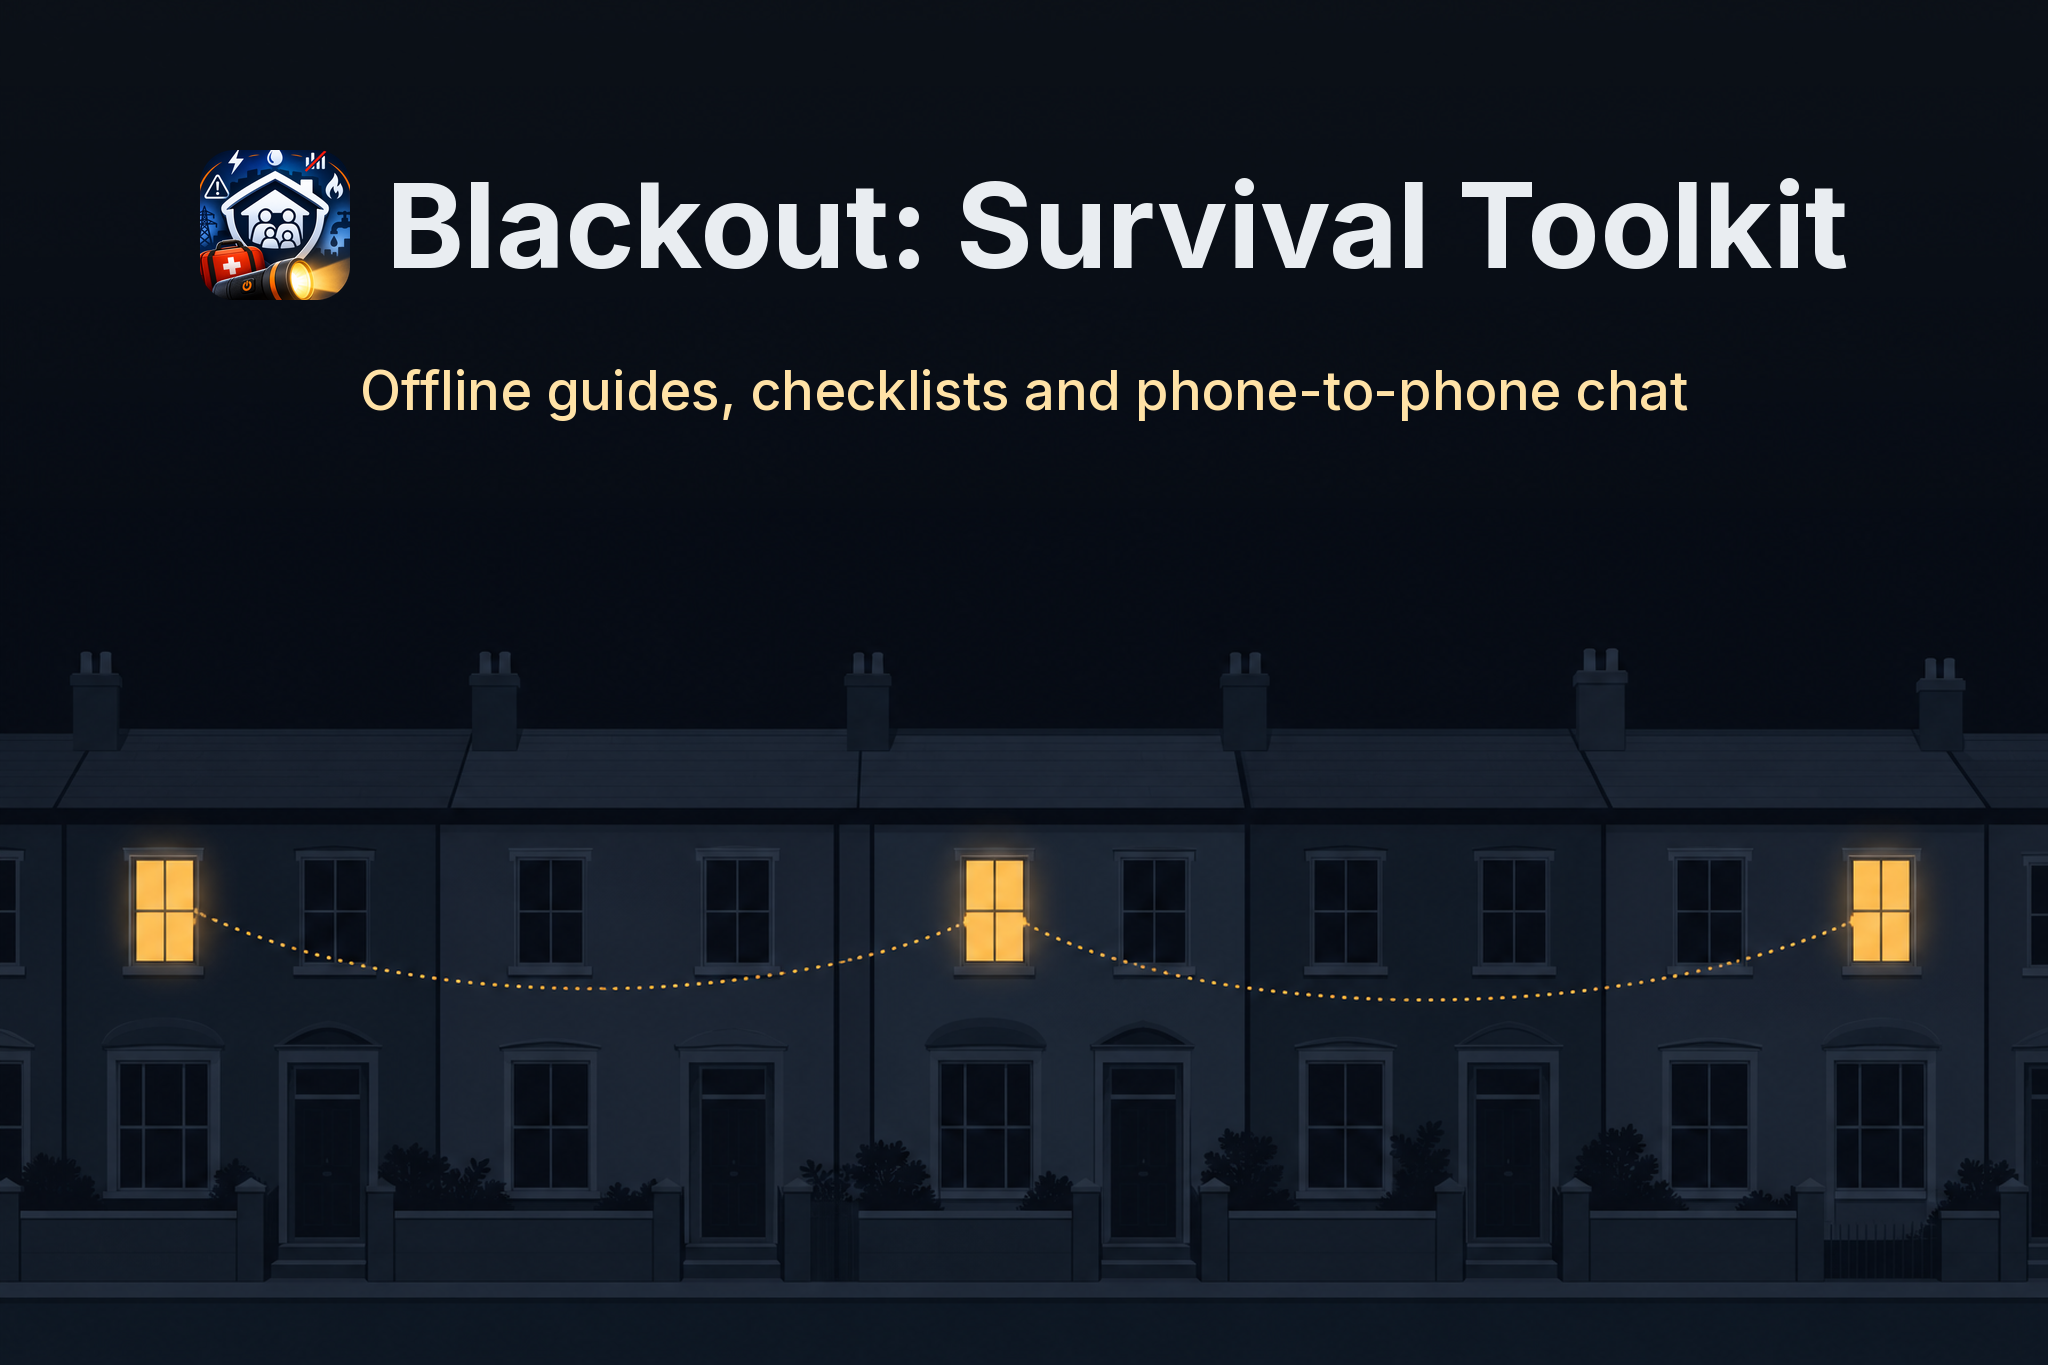
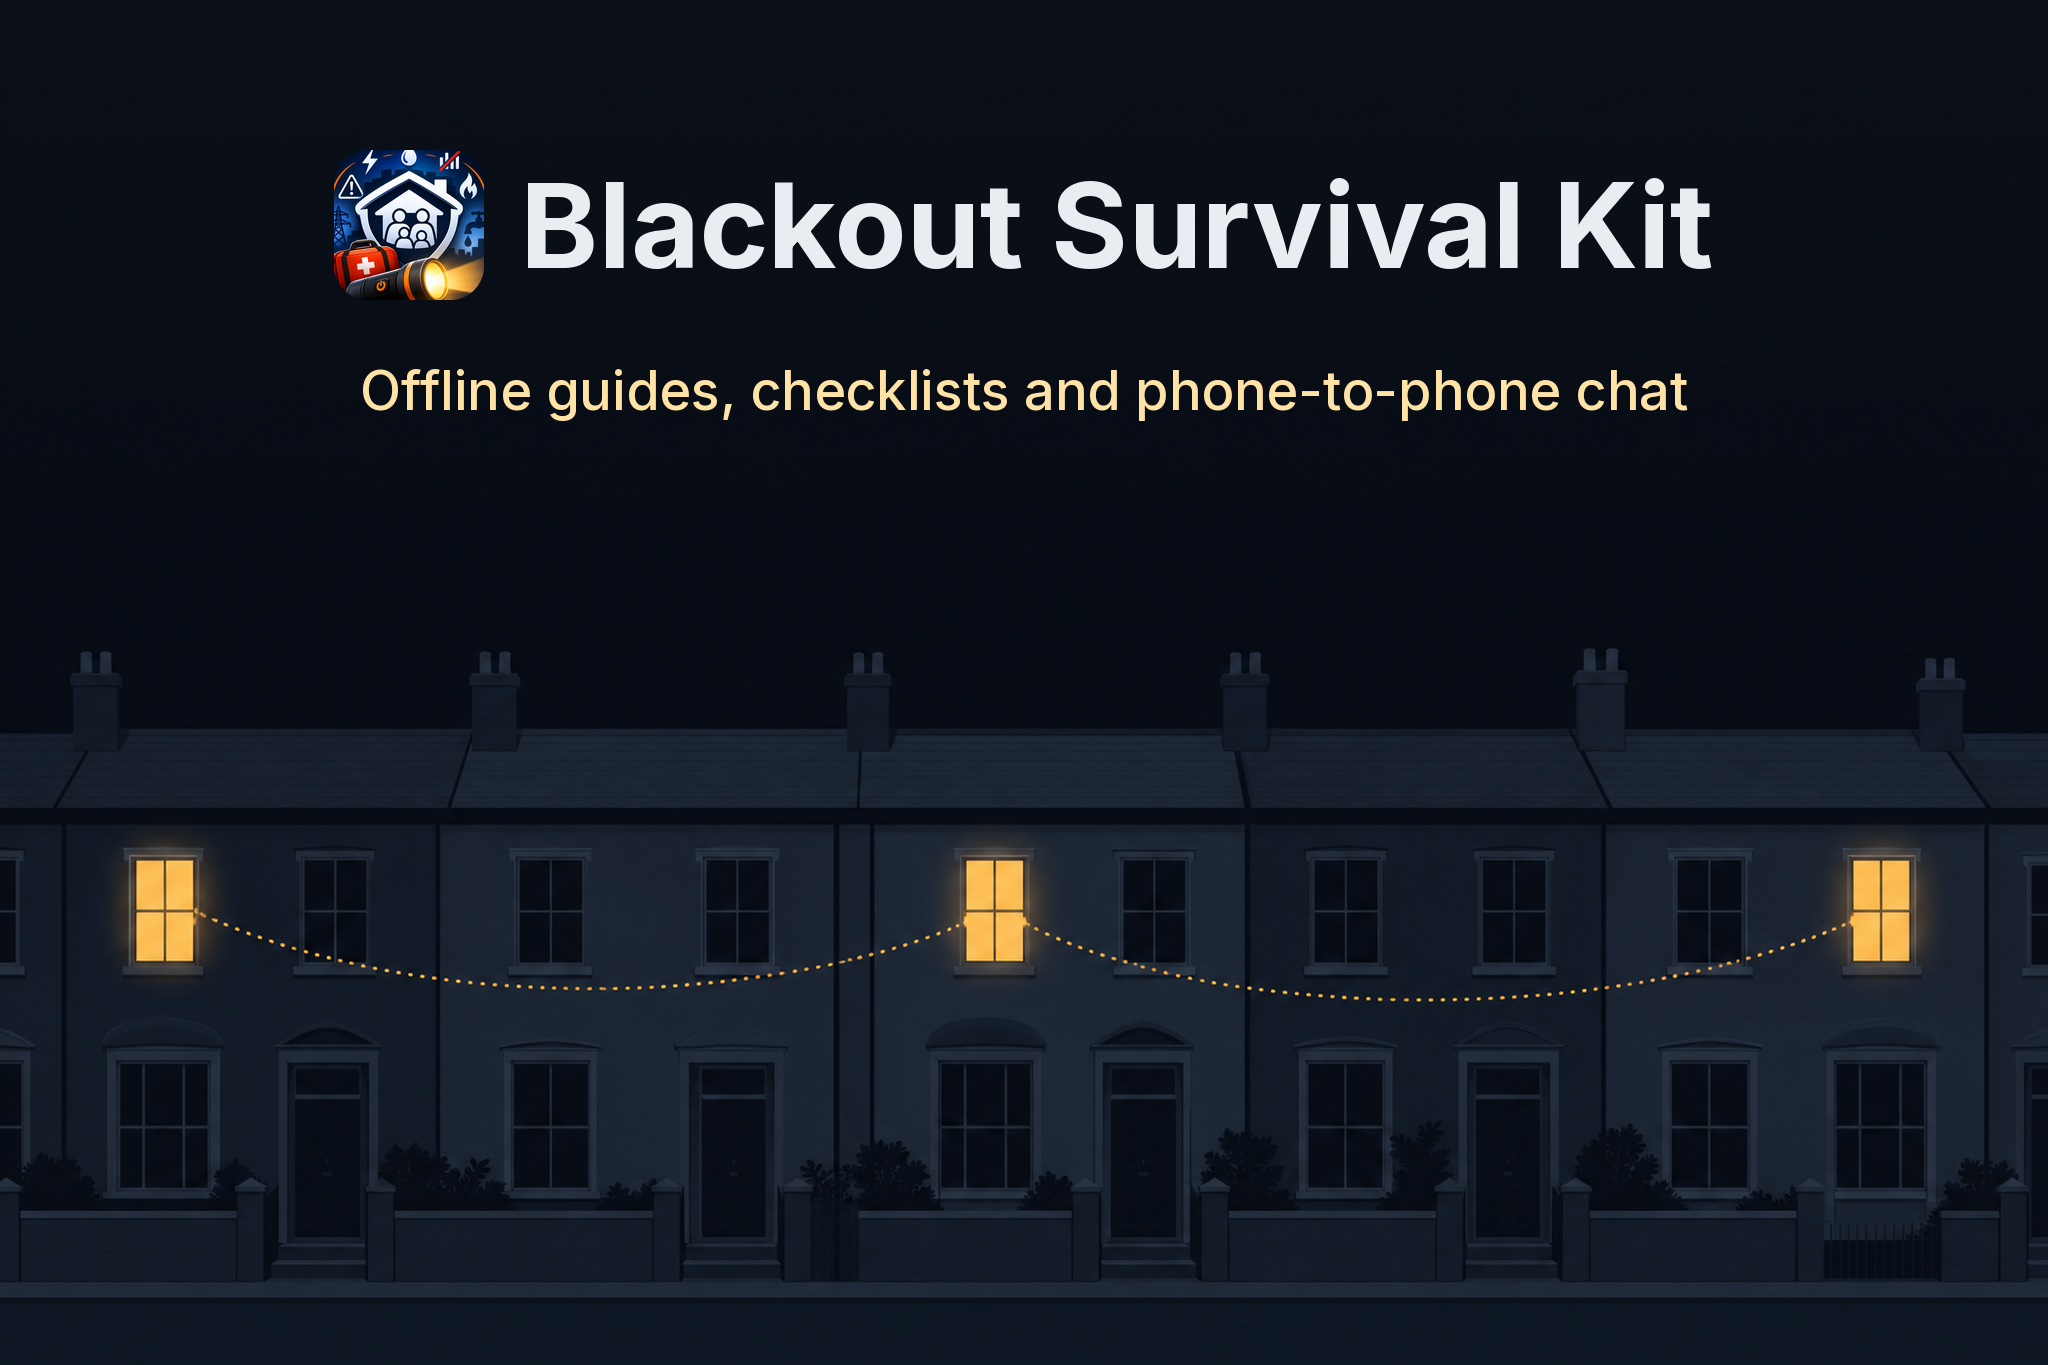
Blackout Survival Kit: rename from 'Blackout: Survival Toolkit' (slug unchanged); made for UK households; feature image title re-rendered

Changed region(s): [[0.0938, 0.0923, 0.9062, 0.2154]]

diff --git a/public_html/blackouttoolkit/index.html b/public_html/blackouttoolkit/index.html
@@ -4,10 +4,10 @@
 <meta charset="UTF-8" />
 <meta name="viewport" content="width=device-width, initial-scale=1, viewport-fit=cover" />
 <meta name="theme-color" content="#0E1319" />
-<title>Blackout: Survival Toolkit — Power cut help, offline guides</title>
-<meta name="description" content="Get your household ready for a power cut, flood, storm or loss of signal. Offline guides and checklists, a household plan, a torch and SOS light, all on your phone with no internet. For iPhone, iPad and Android." />
-<meta property="og:title" content="Blackout: Survival Toolkit — Power cut help, offline guides" />
-<meta property="og:description" content="Get your household ready for a power cut, flood, storm or loss of signal. Offline guides and checklists, a household plan, a torch and SOS light, all on your phone with no internet. For iPhone, iPad and Android." />
+<title>Blackout Survival Kit — Power cut help, offline guides</title>
+<meta name="description" content="Made for UK households: get ready for a power cut, flood, storm or loss of signal. Offline guides and checklists, a household plan, a torch and SOS light, all on your phone with no internet. For iPhone, iPad and Android." />
+<meta property="og:title" content="Blackout Survival Kit — Power cut help, offline guides" />
+<meta property="og:description" content="Made for UK households: get ready for a power cut, flood, storm or loss of signal. Offline guides and checklists, a household plan, a torch and SOS light, all on your phone with no internet. For iPhone, iPad and Android." />
 <meta property="og:type" content="website" />
 <meta property="og:url" content="https://blackouttoolkit.froggyeye.com/" />
 <meta property="og:site_name" content="Froggy Eye Ltd" />
@@ -15,7 +15,7 @@
 <meta property="og:image" content="https://blackouttoolkit.froggyeye.com/feature.png" />
 <meta property="og:image:width" content="2048" />
 <meta property="og:image:height" content="1365" />
-<meta property="og:image:alt" content="Blackout: Survival Toolkit. Offline guides, checklists and phone-to-phone chat." />
+<meta property="og:image:alt" content="Blackout Survival Kit. Offline guides, checklists and phone-to-phone chat for UK households." />
 <link rel="icon" type="image/png" href="icon.png" />
 <link rel="apple-touch-icon" href="icon.png" />
 <link rel="dns-prefetch" href="https://fonts.gstatic.com" />
@@ -231,15 +231,15 @@ a.store[data-na]{display:none !important;}
 </style>
 <link rel="canonical" href="https://blackouttoolkit.froggyeye.com/" />
 <meta name="twitter:card" content="summary_large_image" />
-<meta name="twitter:title" content="Blackout: Survival Toolkit — what to do in a power cut, offline guides and household plan | Froggy Eye Ltd" />
-<meta name="twitter:description" content="What to do in a power cut, flood or storm in the UK. 22 offline guides with checklists, a household emergency plan, torch and SOS light, all on your phone with no internet. Free, with a one-time Pro unlock." />
+<meta name="twitter:title" content="Blackout Survival Kit — what to do in a power cut, offline guides and a household plan for UK homes | Froggy Eye Ltd" />
+<meta name="twitter:description" content="Made for UK households. What to do in a power cut, flood or storm: 22 offline guides with checklists, a household emergency plan, torch and SOS light, all on your phone with no internet. Free, with a one-time Pro unlock." />
 <meta name="twitter:image" content="https://blackouttoolkit.froggyeye.com/feature.png" />
 <script type="application/ld+json">
 {
   "@context": "https://schema.org",
   "@type": "MobileApplication",
-  "name": "Blackout: Survival Toolkit",
-  "description": "What to do in a power cut, flood or storm in the UK. 22 offline guides with checklists, a household emergency plan, torch and SOS light, all on your phone with no internet. Free, with a one-time Pro unlock.",
+  "name": "Blackout Survival Kit",
+  "description": "Made for UK households. What to do in a power cut, flood or storm: 22 offline guides with checklists, a household emergency plan, torch and SOS light, all on your phone with no internet. Free, with a one-time Pro unlock.",
   "applicationCategory": "UtilitiesApplication",
   "operatingSystem": "iOS, Android",
   "url": "https://blackouttoolkit.froggyeye.com",
@@ -270,6 +270,14 @@ a.store[data-na]{display:none !important;}
   "@context": "https://schema.org",
   "@type": "FAQPage",
   "mainEntity": [
+    {
+      "@type": "Question",
+      "name": "Is it available outside the UK?",
+      "acceptedAnswer": {
+        "@type": "Answer",
+        "text": "Not yet. Blackout Survival Kit is made for UK households: the guides follow UK public guidance and use UK numbers such as 999, 105 for a power cut in Great Britain, and 111. Version 1.0 is available on the App Store and Google Play in the UK only."
+      }
+    },
     {
       "@type": "Question",
       "name": "Does it work with no internet?",
@@ -375,7 +383,7 @@ a.store[data-na]{display:none !important;}
     {
       "@type": "ListItem",
       "position": 2,
-      "name": "Blackout: Survival Toolkit",
+      "name": "Blackout Survival Kit",
       "item": "https://blackouttoolkit.froggyeye.com/"
     }
   ]
@@ -390,7 +398,7 @@ a.store[data-na]{display:none !important;}
   <div class="wrap">
     <a class="brand" href="https://froggyeye.com">
       <img src="icon.png" alt="" />
-      <span class="brand-name">Blackout: Survival Toolkit</span>
+      <span class="brand-name">Blackout Survival Kit</span>
     </a>
     <ul>
       <li><a href="#how">How it works</a></li>
@@ -407,9 +415,9 @@ a.store[data-na]{display:none !important;}
 <header class="hero">
   <div class="wrap">
     <div>
-      <span class="eyebrow">For iPhone, iPad and Android · Works with no internet</span>
+      <span class="eyebrow">Made for UK households · iPhone, iPad and Android</span>
       <h1>Ready before the lights go. <span class="gradient-text">Calm steps when they do.</span></h1>
-      <p class="lead">Blackout: Survival Toolkit helps your household get ready for a power cut, flood, storm or loss of signal, and shows you what to do when one happens. The guides, checklists and tools are stored on your phone, so they work with no internet.</p>
+      <p class="lead">Blackout Survival Kit is made for UK households. It helps you get ready for a power cut, flood, storm or loss of signal, and shows you what to do when one happens. The guides, checklists and tools are stored on your phone, so they work with no internet.</p>
       <div class="stores" style="margin-top: 28px;" id="get">
         <a class="store" href="#" data-na="appstore" onclick="return false;" aria-label="Download on the App Store">
           <svg viewBox="0 0 24 24" fill="currentColor"><path d="M17.05 12.04c-.03-2.94 2.4-4.36 2.51-4.43-1.37-2-3.5-2.27-4.26-2.3-1.81-.18-3.54 1.07-4.46 1.07-.94 0-2.35-1.05-3.86-1.02-1.99.03-3.82 1.16-4.85 2.93-2.07 3.59-.53 8.9 1.49 11.81.99 1.43 2.16 3.03 3.7 2.97 1.49-.06 2.05-.96 3.85-.96 1.79 0 2.31.96 3.88.93 1.6-.03 2.62-1.45 3.6-2.89 1.13-1.66 1.6-3.27 1.62-3.36-.04-.02-3.11-1.2-3.14-4.74zM14.55 4.07c.82-1 1.37-2.39 1.22-3.77-1.18.05-2.62.79-3.46 1.78-.76.88-1.42 2.29-1.24 3.65 1.32.1 2.66-.67 3.48-1.66z"/></svg>
@@ -420,7 +428,7 @@ a.store[data-na]{display:none !important;}
           <div><div class="small">GET IT ON</div><div class="big">Google Play</div></div>
         </a>
       </div>
-      <div class="meta"><span><span class="dot"></span> 22 practical guides, all offline</span>
+      <div class="meta"><span><span class="dot"></span> 22 guides based on UK guidance, all offline</span>
         <span>Household plan and readiness score</span>
         <span>Torch and SOS light signal</span>
         <span>Free, with a one-time Pro unlock</span></div>
@@ -445,7 +453,7 @@ a.store[data-na]{display:none !important;}
 <section class="feature-banner-section" style="padding: 0 0 64px 0;">
   <div class="wrap">
     <div class="feature-banner reveal" style="max-width: 720px; margin: 0 auto; border-radius: var(--r-xl); overflow: hidden; box-shadow: 0 30px 80px rgba(0,0,0,0.4); border: 1px solid var(--border);">
-      <img src="feature.png" alt="Blackout: Survival Toolkit. Offline guides, checklists and phone-to-phone chat." style="width:100%; height:auto; display:block;">
+      <img src="feature.png" alt="Blackout Survival Kit. Offline guides, checklists and phone-to-phone chat for UK households." style="width:100%; height:auto; display:block;">
     </div>
   </div>
 </section>
@@ -635,7 +643,7 @@ a.store[data-na]{display:none !important;}
     <div class="reveal" style="text-align: center;">
       <span class="eyebrow">Help and support</span>
       <h2>Need a hand?<br><span class="gradient-text">Write to us.</span></h2>
-      <p class="lead" style="margin: 0 auto;">Blackout: Survival Toolkit is made by Froggy Eye Ltd, a small studio in the UK. If something is unclear or not working, email us and a person will reply.</p>
+      <p class="lead" style="margin: 0 auto;">Blackout Survival Kit is made by Froggy Eye Ltd, a small studio in the UK. If something is unclear or not working, email us and a person will reply.</p>
     </div>
     <div class="sup-grid">
       <div class="s-card reveal">
@@ -646,7 +654,7 @@ a.store[data-na]{display:none !important;}
       <div class="s-card reveal">
         <h3>Privacy</h3>
         <p>There is no account, no advertising and no analytics. Your checklists, household plan and messages are kept on your phone.</p>
-        <p>Read the full <a href="https://mksoft-ltd.github.io/blackout_toolkit/privacy_policy.html">Blackout: Survival Toolkit privacy policy</a>.</p>
+        <p>Read the full <a href="https://mksoft-ltd.github.io/blackout_toolkit/privacy_policy.html">Blackout Survival Kit privacy policy</a>.</p>
       </div>
       <div class="s-card span2 reveal">
         <h3>In an emergency, call 999</h3>
@@ -708,7 +716,7 @@ a.store[data-na]{display:none !important;}
       <span class="eyebrow">Why this exists</span>
       <h2>One light on<br><span class="gradient-text">in a dark house.</span></h2>
       <p class="lead">When the power, water or network goes, the information you need should already be in your pocket.</p>
-      <p>Blackout: Survival Toolkit is calm and practical: plain steps, in order, based on public UK guidance. It is not an official alerting app and does not receive government or emergency alerts. In an emergency, call 999 (or 112).</p>
+      <p>Blackout Survival Kit is calm and practical: plain steps, in order, based on public UK guidance. It is not an official alerting app and does not receive government or emergency alerts. In an emergency, call 999 (or 112).</p>
     </div>
     <div class="reveal stats-grid">
       <div class="stats-card">
@@ -734,6 +742,10 @@ a.store[data-na]{display:none !important;}
       <h2>The basics.</h2>
     </div>
     <div class="faq">
+      <details class="reveal">
+        <summary>Is it available outside the UK?</summary>
+        <div class="answer"><p>Not yet. Blackout Survival Kit is made for UK households: the guides follow UK public guidance and use UK numbers such as 999, 105 for a power cut in Great Britain, and 111. Version 1.0 is available on the App Store and Google Play in the UK only.</p></div>
+      </details>
       <details class="reveal">
         <summary>Does it work with no internet?</summary>
         <div class="answer"><p>Yes. The guides, checklists, household plan and tools are stored on your phone and work with no connection. You only need to be online to buy Pro; once unlocked, Pro works offline too.</p></div>
@@ -786,7 +798,7 @@ a.store[data-na]{display:none !important;}
   <div class="wrap">
     <div class="cta-final reveal">
       <h2>Get ready today. Know what to do tomorrow.</h2>
-      <p>Blackout: Survival Toolkit is free to download, with a one-time Pro unlock. No account, no ads, and everything works with no internet. In an emergency, call 999.</p>
+      <p>Blackout Survival Kit is free to download, with a one-time Pro unlock. No account, no ads, and everything works with no internet. In an emergency, call 999.</p>
       <div class="stores">
         <a class="store" href="#" data-na="appstore" onclick="return false;" style="background: rgba(0,0,0,0.4); border-color: rgba(255,255,255,0.4);">
           <svg viewBox="0 0 24 24" fill="currentColor"><path d="M17.05 12.04c-.03-2.94 2.4-4.36 2.51-4.43-1.37-2-3.5-2.27-4.26-2.3-1.81-.18-3.54 1.07-4.46 1.07-.94 0-2.35-1.05-3.86-1.02-1.99.03-3.82 1.16-4.85 2.93-2.07 3.59-.53 8.9 1.49 11.81.99 1.43 2.16 3.03 3.7 2.97 1.49-.06 2.05-.96 3.85-.96 1.79 0 2.31.96 3.88.93 1.6-.03 2.62-1.45 3.6-2.89 1.13-1.66 1.6-3.27 1.62-3.36-.04-.02-3.11-1.2-3.14-4.74zM14.55 4.07c.82-1 1.37-2.39 1.22-3.77-1.18.05-2.62.79-3.46 1.78-.76.88-1.42 2.29-1.24 3.65 1.32.1 2.66-.67 3.48-1.66z"/></svg>
@@ -835,7 +847,7 @@ a.store[data-na]{display:none !important;}
     <div>
       <a class="brand" href="https://froggyeye.com" style="margin-bottom: 16px;">
         <img src="icon.png" alt="" />
-        <span class="brand-name">Blackout: Survival Toolkit</span>
+        <span class="brand-name">Blackout Survival Kit</span>
       </a>
       <p style="font-size: 14px; max-width: 36ch; margin: 0;">Offline guides, checklists and tools for UK households facing a power cut, flood, storm or loss of signal. Not an official alerting app: in an emergency, call 999. Made in the UK.</p>
     </div>

diff --git a/public_html/index.html b/public_html/index.html
@@ -509,7 +509,7 @@
       "position": 28,
       "item": {
         "@type": "MobileApplication",
-        "name": "Blackout: Survival Toolkit",
+        "name": "Blackout Survival Kit",
         "url": "https://blackouttoolkit.froggyeye.com",
         "applicationCategory": "UtilitiesApplication",
         "operatingSystem": "iOS, Android"
@@ -878,11 +878,11 @@
       </a>
       <a class="app-card reveal" href="https://blackouttoolkit.froggyeye.com">
         <div class="app-card-art" style="background: linear-gradient(135deg, #1E3550, #0E1319);">
-          <img src="icons/blackouttoolkit.png" alt="Blackout: Survival Toolkit">
+          <img src="icons/blackouttoolkit.png" alt="Blackout Survival Kit">
         </div>
         <div class="app-card-info">
           <p class="app-card-cat">Utilities · Reference</p>
-          <h3 class="app-card-title">Blackout: Survival Toolkit</h3>
+          <h3 class="app-card-title">Blackout Survival Kit</h3>
           <p class="app-card-tag">Power cut help, offline guides</p>
           <span class="app-card-cta">Learn more →</span>
         </div>

diff --git a/public_html/foodscore/index.html b/public_html/foodscore/index.html
@@ -715,7 +715,7 @@ a.store[data-na]{display:none !important;}
       <a href="https://blackouttoolkit.froggyeye.com" class="more-card">
         <div class="more-card-art" style="background: linear-gradient(135deg, #1E3550, #0E1319);">🔦</div>
         <div>
-          <div class="more-card-title">Blackout: Survival Toolkit</div>
+          <div class="more-card-title">Blackout Survival Kit</div>
           <div class="more-card-tag">Power cut help, offline guides</div>
         </div>
       </a>

diff --git a/public_html/godlevel/index.html b/public_html/godlevel/index.html
@@ -696,7 +696,7 @@ a.store[data-na]{display:none !important;}
       <a href="https://blackouttoolkit.froggyeye.com" class="more-card">
         <div class="more-card-art" style="background: linear-gradient(135deg, #1E3550, #0E1319);">🔦</div>
         <div>
-          <div class="more-card-title">Blackout: Survival Toolkit</div>
+          <div class="more-card-title">Blackout Survival Kit</div>
           <div class="more-card-tag">Power cut help, offline guides</div>
         </div>
       </a>

diff --git a/public_html/myltdtax/index.html b/public_html/myltdtax/index.html
@@ -729,7 +729,7 @@ a.store[data-na]{display:none !important;}
       <a href="https://blackouttoolkit.froggyeye.com" class="more-card">
         <div class="more-card-art" style="background: linear-gradient(135deg, #1E3550, #0E1319);">🔦</div>
         <div>
-          <div class="more-card-title">Blackout: Survival Toolkit</div>
+          <div class="more-card-title">Blackout Survival Kit</div>
           <div class="more-card-tag">Power cut help, offline guides</div>
         </div>
       </a>
